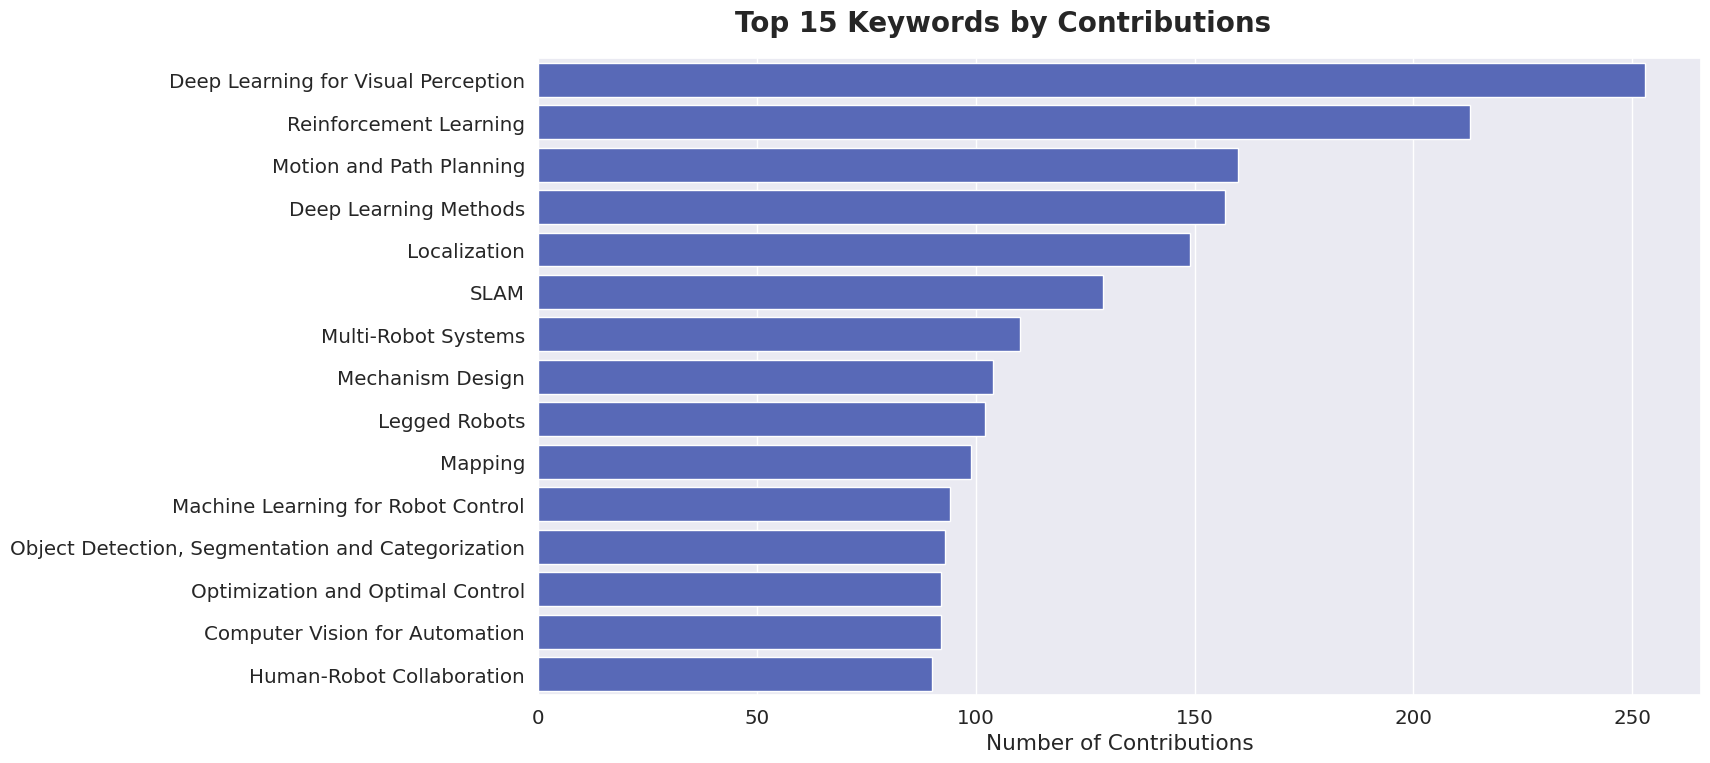
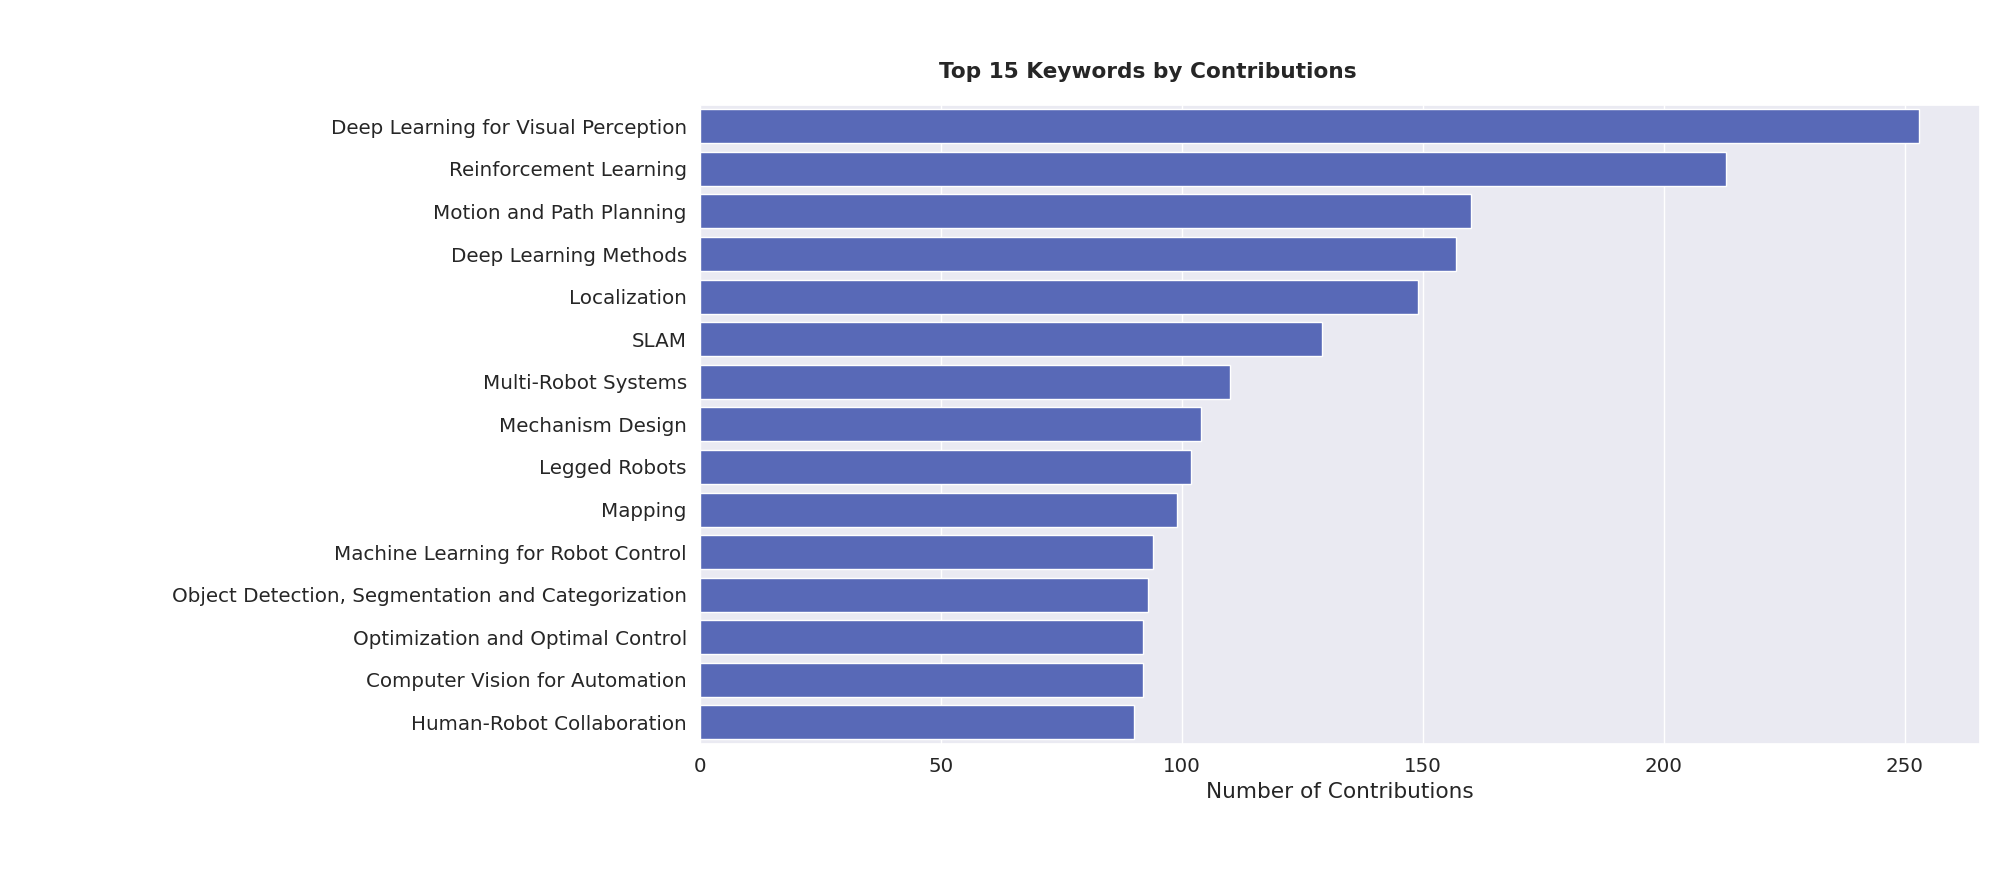
add ROBOSOFT 2024

diff --git a/robotics_conference_scraper.py b/robotics_conference_scraper.py
@@ -5,26 +5,26 @@ import pandas as pd
 import matplotlib.pyplot as plt
 
 #### ROBOSOFT 2024 ####
-# conference = "ROBOSOFT_2024"
-# daily_programs = [
-#     "https://ras.papercept.net/conferences/conferences/ROSO24/program/ROSO24_ContentListWeb_2.html",
-#     "https://ras.papercept.net/conferences/conferences/ROSO24/program/ROSO24_ContentListWeb_3.html",
-#     "https://ras.papercept.net/conferences/conferences/ROSO24/program/ROSO24_ContentListWeb_4.html",
-# ]
-
-# keyword_indx = "https://ras.papercept.net/conferences/conferences/ROSO24/program/ROSO24_KeywordIndexWeb.html"
-
-#### ICRA 2024 ####
-conference = "ICRA_2024"
+conference = "ROBOSOFT_2024"
 daily_programs = [
-    "https://ras.papercept.net/conferences/conferences/ICRA24/program/ICRA24_ContentListWeb_1.html",
-    "https://ras.papercept.net/conferences/conferences/ICRA24/program/ICRA24_ContentListWeb_2.html",
-    "https://ras.papercept.net/conferences/conferences/ICRA24/program/ICRA24_ContentListWeb_3.html",
+    "https://ras.papercept.net/conferences/conferences/ROSO24/program/ROSO24_ContentListWeb_2.html",
+    "https://ras.papercept.net/conferences/conferences/ROSO24/program/ROSO24_ContentListWeb_3.html",
+    "https://ras.papercept.net/conferences/conferences/ROSO24/program/ROSO24_ContentListWeb_4.html",
 ]
 
-keyword_indx = "https://ras.papercept.net/conferences/conferences/ICRA24/program/ICRA24_KeywordIndexWeb.html"
+keyword_indx = "https://ras.papercept.net/conferences/conferences/ROSO24/program/ROSO24_KeywordIndexWeb.html"
 
-author_indx = "https://ras.papercept.net/conferences/conferences/ICRA24/program/ICRA24_AuthorIndexWeb.html"
+#### ICRA 2024 ####
+# conference = "ICRA_2024"
+# daily_programs = [
+#     "https://ras.papercept.net/conferences/conferences/ICRA24/program/ICRA24_ContentListWeb_1.html",
+#     "https://ras.papercept.net/conferences/conferences/ICRA24/program/ICRA24_ContentListWeb_2.html",
+#     "https://ras.papercept.net/conferences/conferences/ICRA24/program/ICRA24_ContentListWeb_3.html",
+# ]
+
+# keyword_indx = "https://ras.papercept.net/conferences/conferences/ICRA24/program/ICRA24_KeywordIndexWeb.html"
+
+# author_indx = "https://ras.papercept.net/conferences/conferences/ICRA24/program/ICRA24_AuthorIndexWeb.html"
 
 
 # Unfortunately, uni names are not uniquely identified. I perform a coarse search to eliminate ambiguity. Note that the results are not 100% correct of course.
@@ -149,7 +149,6 @@ def get_keywords_list():
 
 
 def plot(list, title, xlabel, filename):
-    sb.set_theme(rc={"figure.figsize": (15, 8.27)})
     sb.set(font_scale=1.3)
     ax = sb.countplot(
         y=list,
@@ -157,9 +156,11 @@ def plot(list, title, xlabel, filename):
         color="#485fc7",
         orient="h",
     )
+    ax.figure.set_size_inches(20, 8.75)
     ax.set_xlabel(xlabel)
-    ax.set_title(title, fontsize=20, fontweight="bold", x=0.4, y=1.03)
-    ax.get_figure().savefig(filename, bbox_inches="tight")
+    ax.set_title(title, fontweight="bold", x=0.35, y=1.03)
+    plt.gcf().subplots_adjust(left=.35, right=.99)
+    ax.get_figure().savefig(filename, bbox_inches=None)
     plt.clf()
 
 
@@ -168,18 +169,18 @@ keywords_list = get_keywords_list()
 
 print("Number of total contributions: ", len(university_list))
 
-plot(
-    university_list,
-    "Top 15 Institutions by Contributions",
-    "Number of Contributions",
-    f"university_contributions_{conference}.png",
-)
+# plot(
+#     university_list,
+#     "Top 15 Institutions by Contributions",
+#     "Number of Contributions",
+#     f"university_contributions_{conference}.png",
+# )
 
 plot(
     contributors_list,
     "Top 15 Authors by Contributions",
     "Number of Contributions",
-    f"authors_contribution_{conference}.png",
+    f"authors_contributions_{conference}.png",
 )
 
 plot(
